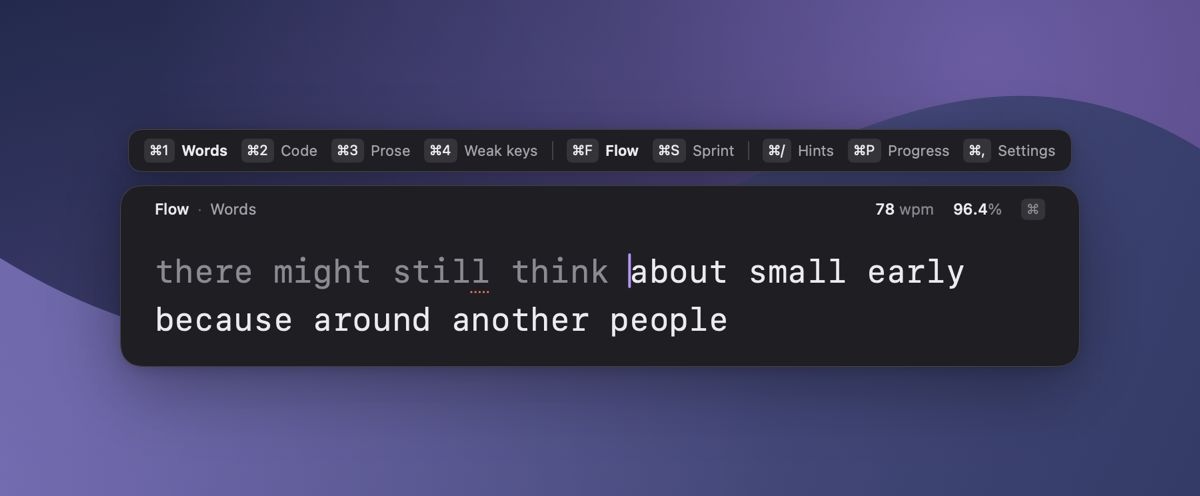
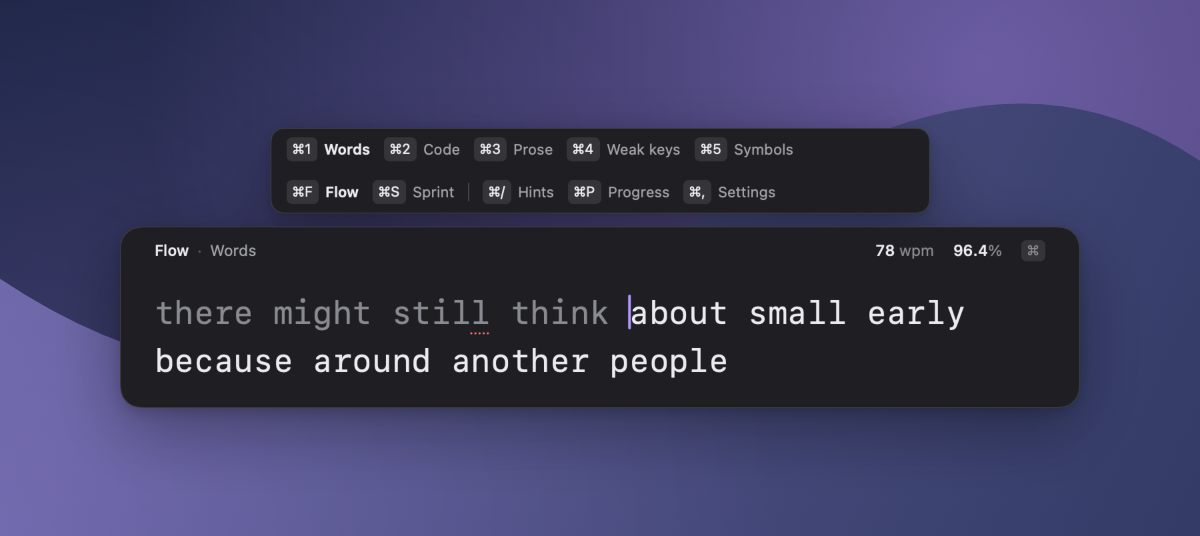
M11: demo GIF, refreshed images and README (#13)
* M11: demo GIF, refreshed images and README

* Correct two checklist expectations from review

---------

Changed region(s): [[0.0925, 0.2117, 0.925, 0.4839], [0.1233, 0.5141, 0.8017, 0.6956], [0.0925, 0.7258, 0.8942, 0.7863]]

diff --git a/Tests/TwiddleUITests/ReadmeScreenshots.swift b/Tests/TwiddleUITests/ReadmeScreenshots.swift
@@ -1,7 +1,10 @@
 import AppKit
+import ImageIO
 import SwiftUI
 import Testing
+import TwiddleCore
 import TwiddleUI
+import UniformTypeIdentifiers
 
 struct ReadmeScreenshots {
   @Test(.enabled(if: ProcessInfo.processInfo.environment["TWIDDLE_SCREENSHOT_DIR"] != nil))
@@ -13,17 +16,10 @@ struct ReadmeScreenshots {
       .deletingLastPathComponent().deletingLastPathComponent().deletingLastPathComponent()
       .appendingPathComponent(".build/snapshots", isDirectory: true)
 
-    for scheme in [ColorScheme.dark, .light] {
-      let name = scheme == .dark ? "dark" : "light"
-      let panel = try load("waiting-\(name)", from: snapshots)
-      try export(
-        DesktopScene(panel: panel, scheme: scheme), size: CGSize(width: 1440, height: 900),
-        scale: 1600.0 / 1440, to: destination.appendingPathComponent("hero-\(name).png"))
-    }
-
     for (name, fixture) in [
       ("flow", "waiting"), ("code", "code"), ("sprint", "sprintResult"),
       ("hints", "hintsPlain"), ("progress", "progressData"), ("commands", "capsule"),
+      ("symbols", "symbols"), ("ghost", "sprintGhost"),
     ] {
       let panel = try load("\(fixture)-dark", from: snapshots)
       // Multiples of three keep the 4/3 export scale on whole pixels.
@@ -36,6 +32,115 @@ struct ReadmeScreenshots {
         content, size: CGSize(width: 900, height: height), scale: 4.0 / 3,
         to: destination.appendingPathComponent("\(name).png"))
     }
+    try demo(to: destination.appendingPathComponent("demo.gif"))
+  }
+
+  @MainActor private func demo(to url: URL) throws {
+    let directory = FileManager.default.temporaryDirectory.appendingPathComponent(UUID().uuidString)
+    defer { try! FileManager.default.removeItem(at: directory) }
+    let date = Date(timeIntervalSince1970: 0)
+    let store = Store(directory: directory, currentDate: { date })
+    var state = Store.State(date: store.today)
+    state.today = .init(
+      date: store.today,
+      counters: .init(netCorrectChars: 100, presses: 100, correctPresses: 100, activeSeconds: 15))
+    state.resume["words"] = .init(
+      session: TypingSession(
+        text: String(
+          repeating: "there might still think about small early because around another people ",
+          count: 12)))
+    try store.save(state)
+    // Let the resume note expire before the storyboard starts.
+    var time = -3.0
+    let model = PracticeModel(store: store, random: DemoRandom(), now: { time }, date: { date })
+    model.summon()
+
+    var random = DemoRandom()
+    var events: [(time: Double, input: TypingSession.Input)] = []
+    let text = Array(model.session.text)
+    var next = 1.10
+    var offset = 0
+    while next < 8.85 {
+      if offset == 32 {
+        events.append((next, .character("q")))
+        events.append((next + 0.36, .backspace))
+        next += 0.46
+      }
+      events.append((next, .character(text[offset])))
+      next += 0.12 + Double(random.next() % 61) / 1000
+      offset += 1
+    }
+
+    // Centisecond boundaries alternate 80/90 ms delays without accumulating GIF rounding drift.
+    let boundaries = (0...120).map { (Double($0) / 12 * 100).rounded() / 100 }
+    let data = NSMutableData()
+    let encoder = try #require(
+      CGImageDestinationCreateWithData(data, UTType.gif.identifier as CFString, 120, nil))
+    CGImageDestinationSetProperties(
+      encoder, [kCGImagePropertyGIFDictionary: [kCGImagePropertyGIFLoopCount: 0]] as CFDictionary)
+    var eventIndex = 0
+    var sawPending = false
+    var sawCorrection = false
+    for frame in 0..<120 {
+      let frameTime = boundaries[frame]
+      while eventIndex < events.count && events[eventIndex].time <= frameTime {
+        time = events[eventIndex].time
+        model.handle(events[eventIndex].input)
+        eventIndex += 1
+      }
+      time = frameTime
+      model.tick()
+      if model.session.pending != nil { sawPending = true }
+      if sawPending && model.session.pending == nil && model.session.caret > 32 {
+        sawCorrection = true
+      }
+      try autoreleasepool {
+        let panelRenderer = ImageRenderer(
+          content: PanelView(model: model, snapshot: true).environment(\.colorScheme, .dark))
+        panelRenderer.scale = 2
+        let panel = try #require(panelRenderer.cgImage)
+        let summon = min(1, max(0, (frameTime - 0.75) / Theme.summonDuration))
+        let eased = UnitCurve.easeOut.value(at: summon)
+        let fade = min(1, max(0, (frameTime - 9.15) / Theme.hideDuration))
+        let scene = DesktopScene(
+          panel: panel, scheme: .dark, panelOpacity: eased * (1 - fade),
+          panelRise: Theme.summonRise * (1 - eased),
+          elapsed: 134 + Int(min(frameTime, 9) + 0.5), finished: frameTime >= 9)
+        let image = try render(scene, size: CGSize(width: 1440, height: 900), scale: 800.0 / 1440)
+        let delay = ((boundaries[frame + 1] - frameTime) * 100).rounded() / 100
+        CGImageDestinationAddImage(
+          encoder, image,
+          [
+            kCGImagePropertyGIFDictionary: [
+              kCGImagePropertyGIFDelayTime: delay, kCGImagePropertyGIFUnclampedDelayTime: delay,
+            ]
+          ] as CFDictionary)
+      }
+    }
+    #expect(eventIndex == events.count)
+    #expect(model.session.caret == offset)
+    #expect(model.session.mistakes == [32])
+    #expect(sawPending && sawCorrection)
+    #expect((75...85).contains(model.headerCounters.wpm))
+    #expect(CGImageDestinationFinalize(encoder))
+    #expect(data.length < 5_000_000)
+    try (data as Data).write(to: url)
+
+    let source = try #require(CGImageSourceCreateWithData(data, nil))
+    #expect(CGImageSourceGetCount(source) == 120)
+    var duration = 0.0
+    for frame in 0..<120 {
+      let properties = try #require(
+        CGImageSourceCopyPropertiesAtIndex(source, frame, nil) as? [CFString: Any])
+      #expect(properties[kCGImagePropertyPixelWidth] as? Int == 800)
+      #expect(properties[kCGImagePropertyPixelHeight] as? Int == 500)
+      let gif = try #require(properties[kCGImagePropertyGIFDictionary] as? [CFString: Any])
+      duration += try #require(gif[kCGImagePropertyGIFUnclampedDelayTime] as? Double)
+    }
+    #expect(abs(duration - 10) < 0.001)
+    let properties = try #require(CGImageSourceCopyProperties(source, nil) as? [CFString: Any])
+    let gif = try #require(properties[kCGImagePropertyGIFDictionary] as? [CFString: Any])
+    #expect(gif[kCGImagePropertyGIFLoopCount] as? Int == 0)
   }
 
   @MainActor private func load(_ name: String, from directory: URL) throws -> CGImage {
@@ -46,16 +151,32 @@ struct ReadmeScreenshots {
   @MainActor private func export(
     _ content: some View, size: CGSize, scale: CGFloat, to url: URL
   ) throws {
+    let image = try render(content, size: size, scale: scale)
+    let png = try #require(
+      NSBitmapImageRep(cgImage: image).representation(using: .png, properties: [:]))
+    #expect(png.count < 1_000_000)
+    try png.write(to: url)
+  }
+
+  @MainActor private func render(
+    _ content: some View, size: CGSize, scale: CGFloat
+  ) throws -> CGImage {
     let renderer = ImageRenderer(content: content.frame(width: size.width, height: size.height))
     renderer.scale = scale
     renderer.isOpaque = true
     let image = try #require(renderer.cgImage)
     #expect(image.width == Int((size.width * scale).rounded()))
     #expect(image.height == Int((size.height * scale).rounded()))
-    let png = try #require(
-      NSBitmapImageRep(cgImage: image).representation(using: .png, properties: [:]))
-    #expect(png.count < 1_000_000)
-    try png.write(to: url)
+    return image
+  }
+}
+
+private struct DemoRandom: RandomNumberGenerator {
+  private var state: UInt64 = 42
+
+  mutating func next() -> UInt64 {
+    state = state &* 6_364_136_223_846_793_005 &+ 1
+    return state
   }
 }
 
@@ -120,17 +241,22 @@ private struct DesktopWallpaper: View {
 private struct DesktopScene: View {
   let panel: CGImage
   let scheme: ColorScheme
+  var panelOpacity = 1.0
+  var panelRise = 0.0
+  var elapsed = 134
+  var finished = false
 
   var body: some View {
     ZStack(alignment: .topLeading) {
       DesktopWallpaper(scheme: scheme)
       DesktopMenuBar(scheme: scheme)
         .frame(width: 1440, height: 28)
-      AgentTerminal(scheme: scheme)
+      AgentTerminal(scheme: scheme, elapsed: elapsed, finished: finished)
         .frame(width: 1080, height: 570)
         .position(x: 720, y: 395)
       SnapshotPanel(image: panel)
-        .position(x: 720, y: 732)
+        .opacity(panelOpacity)
+        .position(x: 720, y: 732 + panelRise)
     }
     .environment(\.colorScheme, scheme)
   }
@@ -166,6 +292,8 @@ private struct DesktopMenuBar: View {
 
 private struct AgentTerminal: View {
   let scheme: ColorScheme
+  var elapsed = 134
+  var finished = false
 
   private var theme: Theme { Theme(scheme) }
 
@@ -195,9 +323,14 @@ private struct AgentTerminal: View {
         Text("Checking focus handling and the edge cases…")
           .foregroundStyle(theme.secondary)
         HStack(spacing: 10) {
-          Image(systemName: "circle.dotted").foregroundStyle(theme.accent)
-          Text("Thinking…").foregroundStyle(theme.primary)
-          Text("2m 14s").foregroundStyle(theme.secondary)
+          if finished {
+            Text("✓").foregroundStyle(theme.accent)
+            Text("Done in \(elapsed / 60)m \(elapsed % 60)s").foregroundStyle(theme.primary)
+          } else {
+            Image(systemName: "circle.dotted").foregroundStyle(theme.accent)
+            Text("Thinking…").foregroundStyle(theme.primary)
+            Text("\(elapsed / 60)m \(elapsed % 60)s").foregroundStyle(theme.secondary)
+          }
         }
         Spacer(minLength: 0)
       }

diff --git a/README.md b/README.md
@@ -7,10 +7,7 @@
 **Your agent is thinking. Your build is running. Slack is typing…**<br>
 Press a hotkey, get faster at typing right where you are, and vanish.
 
-<picture>
-  <source media="(prefers-color-scheme: light)" srcset="docs/screenshots/hero-light.png">
-  <img src="docs/screenshots/hero-dark.png" alt="The Twiddle panel floating over a terminal running a long coding-agent session" width="800">
-</picture>
+<img src="docs/screenshots/demo.gif" alt="While a coding agent thinks in a terminal, the Twiddle panel appears, a few lines get typed, and it vanishes when the agent finishes" width="800">
 
 `macOS 26` · `Apple silicon` · `no account` · `no permissions` · `nothing uploaded` · `MIT`
 
@@ -32,11 +29,15 @@ No session to start. No score to protect. No timer unless you ask for one.
 <td width="50%"><img src="docs/screenshots/sprint.png" alt="A sprint result card"><br><b>Sprint</b><br>15, 30 or 60 seconds, then a result card. <code>⌘S</code> and go.</td>
 </tr>
 <tr>
-<td><img src="docs/screenshots/code.png" alt="Practice text made of source code"><br><b>Practice what you actually type</b><br>Common words, code and terminal commands, classic prose, or drills built from your weakest keys.</td>
+<td><img src="docs/screenshots/code.png" alt="Practice text made of source code"><br><b>Practice what you actually type</b><br>Go, Python, TypeScript, SQL and Shell, one pack at a time. Press <code>⌘2</code> again to switch. Common words and classic prose are there too.</td>
 <td><img src="docs/screenshots/hints.png" alt="Finger hints on a keyboard map"><br><b>Finger hints</b><br>An optional keyboard map shows which finger should take the next key. It guides, and never grades.</td>
 </tr>
 <tr>
-<td><img src="docs/screenshots/progress.png" alt="Today's numbers, a speed trend and the weakest keys"><br><b>Progress</b><br>Today's numbers, your recent trend and your weakest keys, by speed and errors. A glance, not a dashboard.</td>
+<td><img src="docs/screenshots/ghost.png" alt="A sprint with a faint second caret ahead of the real one"><br><b>Race your ghost</b><br>A faint caret runs at your best pace for that sprint length. Beat it for a <code>New best</code>.</td>
+<td><img src="docs/screenshots/symbols.png" alt="Practice text made of numbers and symbols"><br><b>Numbers and symbols</b><br>The keys most people still reach for by eye, in realistic shapes like <code>port: 8080</code>.</td>
+</tr>
+<tr>
+<td><img src="docs/screenshots/progress.png" alt="Today's numbers, rhythm, a speed trend, the weakest keys and the slowest letter pairs"><br><b>Progress that tells you something</b><br>Your trend, how even your rhythm is, your weakest keys and slowest letter pairs, and how far symbols slow you down. Weak keys drills aim straight at them.</td>
 <td><img src="docs/screenshots/commands.png" alt="The command capsule above the panel"><br><b>All keyboard</b><br>Hold <code>⌘</code> to see the commands. The mouse can stay where it is.</td>
 </tr>
 </table>
@@ -49,7 +50,7 @@ No session to start. No score to protect. No timer unless you ask for one.
 | `Esc` | Dismiss |
 | `⌘F` | Flow |
 | `⌘S` | Sprint. Press again to cycle 15, 30 and 60 seconds before you start, or to restart a running sprint |
-| `⌘1` `⌘2` `⌘3` `⌘4` | Words, Code, Prose, Weak keys |
+| `⌘1` `⌘2` `⌘3` `⌘4` `⌘5` | Words, Code, Prose, Weak keys, Symbols. On Code, `⌘2` cycles the language packs |
 | `⌘/` | Finger hints |
 | `⌘P` | Progress |
 | `⌘,` | Settings |
@@ -79,7 +80,7 @@ Twiddle only reads keys while its panel is open, and asks for no Accessibility o
 
 ## Credits
 
-Prose comes from *Alice's Adventures in Wonderland* by Lewis Carroll (1865) and *The Time Machine* by H. G. Wells (1895), both public domain and checked against [Project Gutenberg](https://www.gutenberg.org). Words, code and drills were written for the project.
+Prose comes from *Alice's Adventures in Wonderland* by Lewis Carroll (1865) and *The Time Machine* by H. G. Wells (1895), both public domain and checked against [Project Gutenberg](https://www.gutenberg.org). Words, code, symbols and drills were written for the project.
 
 Images are composed from the app's real views by `make screenshots`. The desktop behind the panel is drawn, and the live app adds macOS's blur.
 

diff --git a/CHECKLIST.md b/CHECKLIST.md
@@ -13,3 +13,7 @@ Run `make install`, then open `/Applications/Twiddle.app`. These are the checks 
 - [ ] Live theme: in Settings choose Light, Dark, then System; expect its colours to change immediately. Close Settings and summon after each; expect matching panel colours. Leave System selected and Settings open, change macOS Appearance; expect Settings to update without relaunch. Close Settings and summon; expect the panel to match too.
 - [ ] Login: enable Launch at login, close and reopen Settings; expect it still on with no error. Log out of macOS and really log back in; expect Twiddle's icon without manually opening it, and the saved hotkey to summon. Disable Launch at login and repeat a real login; expect no Twiddle icon until opened manually.
 - [ ] Audio: start music in your usual player, summon, type for a minute, switch Flow/Sprint and dismiss. Expect uninterrupted playback throughout.
+- [ ] Capsule: drag the panel to the top of the screen and hold `⌘`. Expect the two-row capsule fully on screen, with the panel not moving.
+- [ ] Code packs: press `⌘2` repeatedly. Expect fresh text and the header to step through `Code · Go`, Python, TypeScript, SQL, Shell, then `Code`. Relaunch and expect the pack to stick.
+- [ ] Progress height: open `⌘P` near the bottom of the screen, then near the top. Expect the taller view fully on screen each time. The bottom edge stays put when there's room above, and otherwise the panel shifts down just enough to fit.
+- [ ] Ghost: run two sprints of the same length. Expect a faint caret moving smoothly in the second, and `New best` on the result whenever you beat your best for that length.

diff --git a/HANDOFF.md b/HANDOFF.md
@@ -3,19 +3,19 @@
 The current state only. Replace this page at each checkpoint. Keep it under 40 lines.
 
 **Updated:** 2026-10-31
-**Main:** v1 complete, M0 to M7 merged
-**Active:** v1.1 in `SPEC.md`. Symbols, code packs and the two-row capsule are in review.
+**Main:** v1 plus Symbols, code packs, stats and ghost sprint
+**Active:** none
 **Unpushed work:** none
 
 ## Next steps
 
-1. Stats work from M10.
-2. Demo GIF, README, checklist and version 0.2.0 from M11.
+1. Once unblocked, build M8 (`twiddle://done`) and paste to practise from `SPEC.md`.
+2. Add the Finished pill to `demo.gif`, then bump to 0.2.0.
 3. Owner runs `CHECKLIST.md`.
 
 ## Blockers
 
-- M8 (`twiddle://done`) and paste to practise wait on Kartik's decision about `security-guidance`. The Seezo server is disabled for this project, and Codex stops on it.
+- M8 and paste to practise wait on Kartik's decision about `security-guidance`. The Seezo server is disabled for this project, and Codex stops on it.
 - On-device drills wait on Apple Intelligence being turned on.
 
 ## Known flakes
